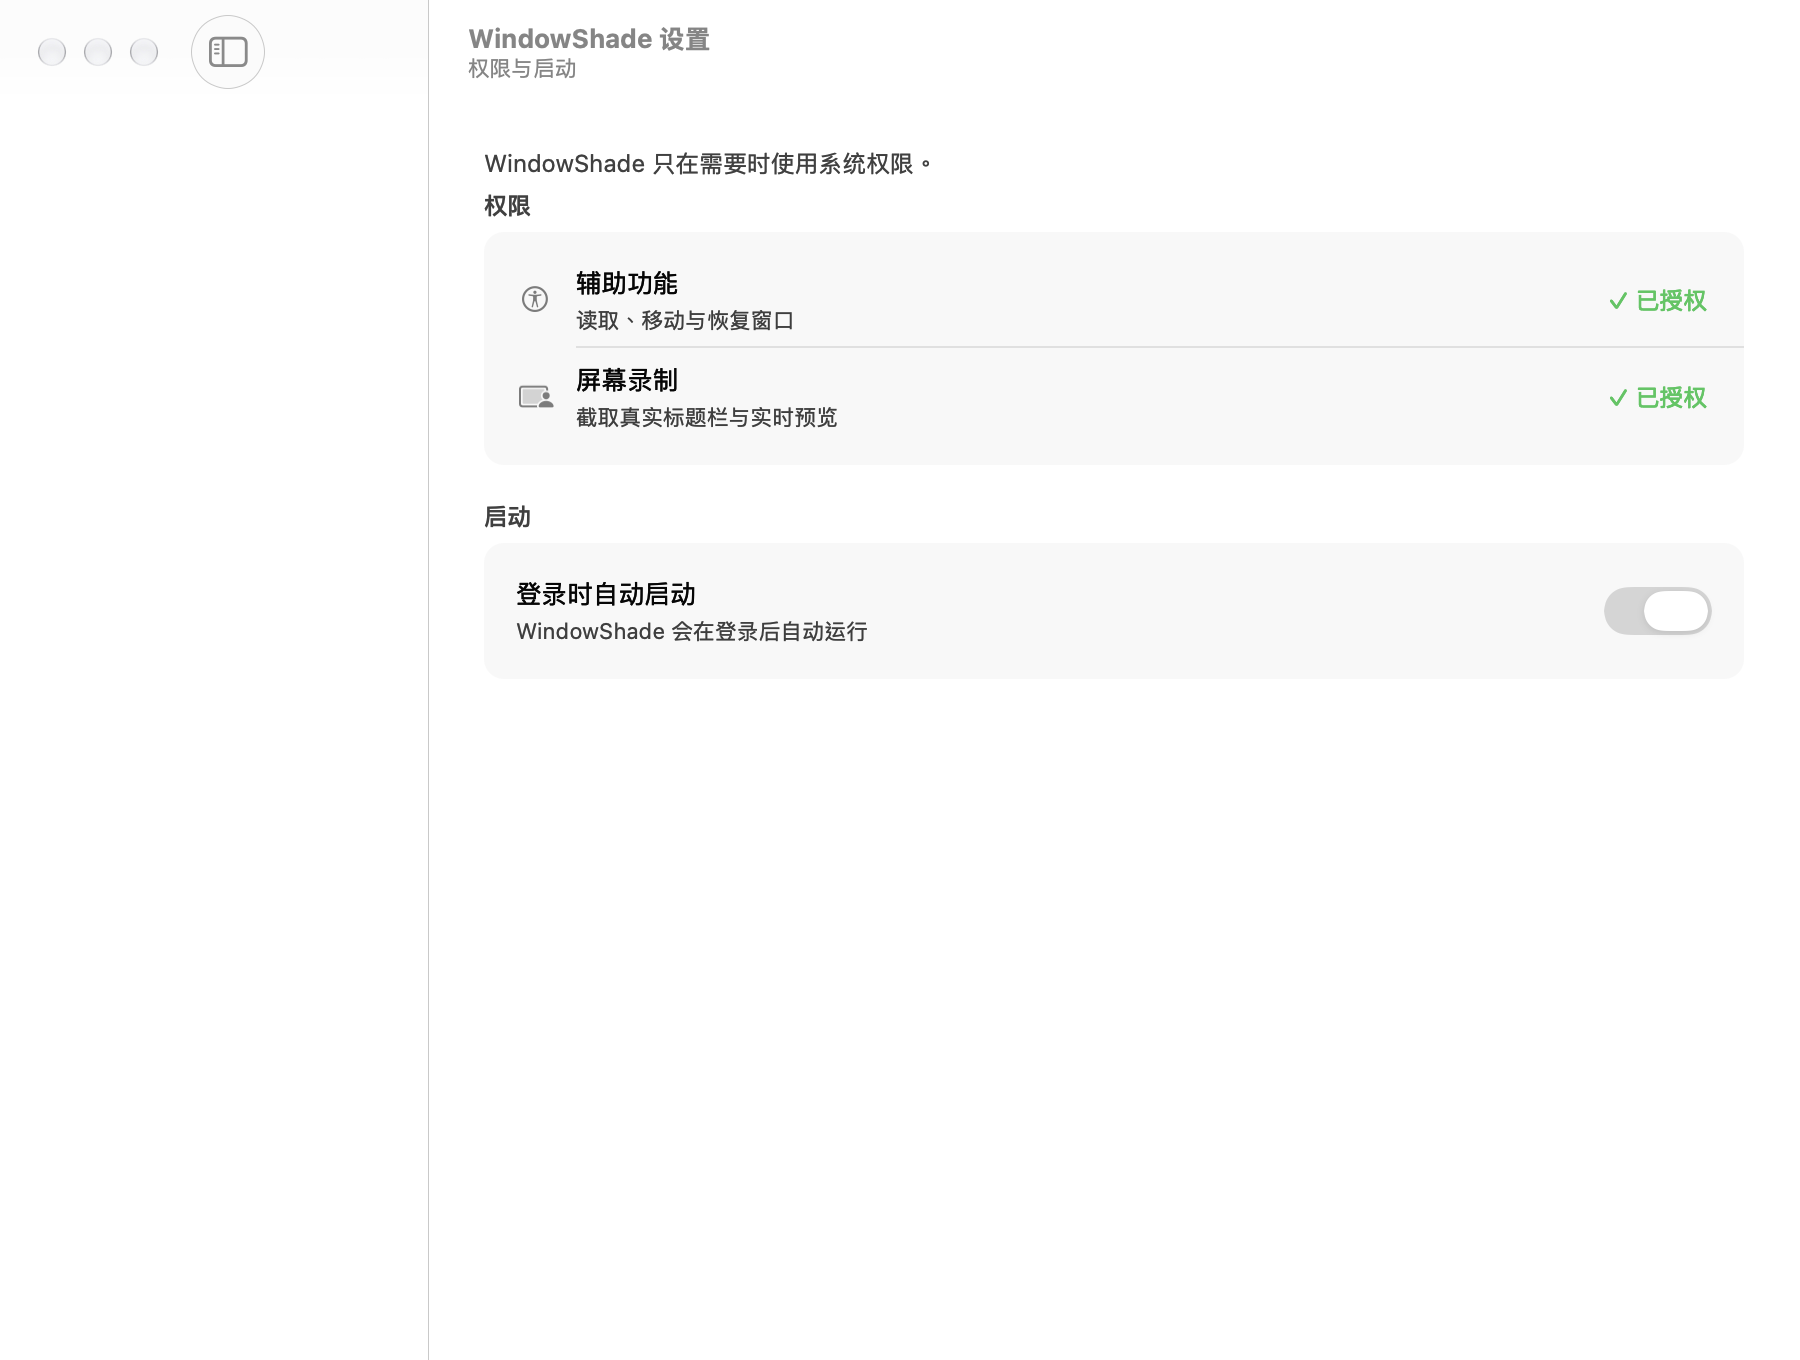
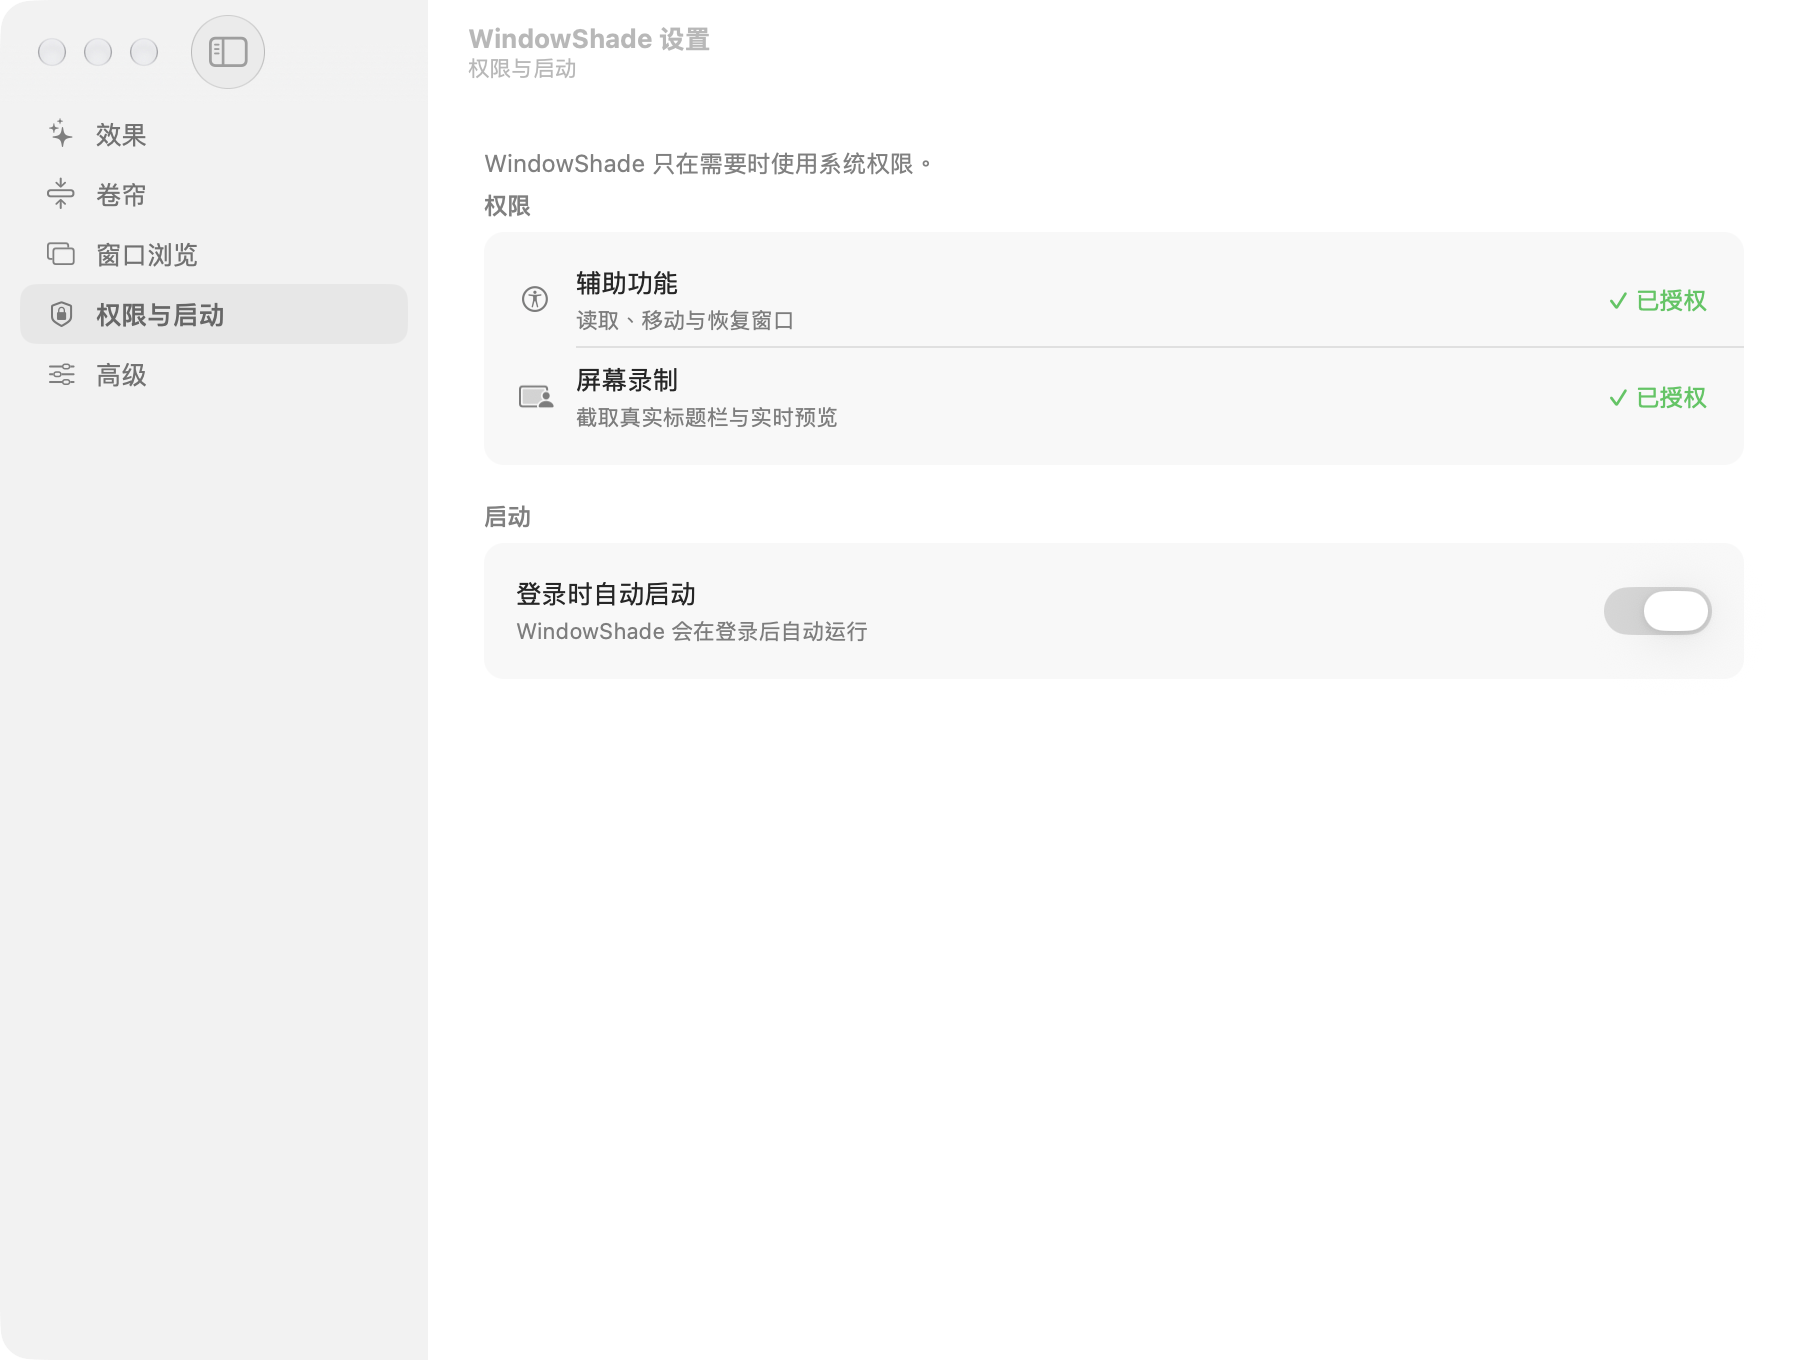
Capture the settings sidebar in the screenshot archive
- SettingsShotProbe：优先用 CGWindowListCreateImage 抓自己这扇窗（dlsym 取符号、
  全透明结果视为失败），拿不到才退回 cacheDisplay 离屏渲染，manifest 同步说明。
  侧栏材质因此进入归档图（浅色 242 / 深色 45），不再是一块透明区域。
- check-settings-appearance.sh：新增侧栏材质不透明断言（meanAlpha > 0.95），
  防止退回透明块时仍然报“外观检查通过”；报告追加该行。
- 归档 docs/visual-qa/settings/ 重新生成（五页浅深 + manifest）。
- 文档：把“设置页截图与改动前逐像素零差异”限定为内容区，并记录新的截图口径、
  新的亮度表与侧栏 alpha。

diff --git a/prototype/Effects/SettingsShotProbe.swift b/prototype/Effects/SettingsShotProbe.swift
@@ -1,8 +1,9 @@
-// 设置窗口的离屏截图入口：用生产设置窗口渲染每一页，不需要屏幕录制权限。
+// 设置窗口截图入口：用生产设置窗口渲染每一页，不需要屏幕录制权限。
 //
 // 与 `SettingsDesignPreview`（走 ScreenCaptureKit 的整窗截图）互补：这里用
-// `cacheDisplay` 拍主题框架，因此包含工具栏与内容区；侧栏由系统材质绘制，离屏
-// 渲染可能为空，需要侧栏时仍用设计预览入口。
+// `CGWindowListCreateImage` 抓自己这扇窗（已合成系统侧栏材质），失败时退回
+// `cacheDisplay`；后者拍的是主题框架，侧栏由系统材质绘制、离屏渲染会是透明区域，
+// 因此只在整窗截图拿不到结果时使用。
 //
 // 用法：WindowShade.app/Contents/MacOS/WindowShade --settings-shots [输出目录]
 
@@ -22,7 +23,8 @@ final class SettingsShotProbe {
                                                 withIntermediateDirectories: true)
         let appearances: [(String, NSAppearance.Name)] = [("light", .aqua), ("dark", .darkAqua)]
         var manifest = """
-        设置窗口页面截图（生产设置窗口，cacheDisplay 离屏渲染；侧栏由系统材质绘制，不在此图内）
+        设置窗口页面截图（生产设置窗口整窗截图，含系统侧栏材质；拿不到整窗结果时才退回
+        cacheDisplay 离屏渲染，那种情况下侧栏区域是透明的）
         macOS: \(ProcessInfo.processInfo.operatingSystemVersionString)
         scale: \(Int(NSScreen.main?.backingScaleFactor ?? 1))x
 
@@ -38,7 +40,8 @@ final class SettingsShotProbe {
                                               y: window.frame.origin.y))
                 RunLoop.current.run(until: Date().addingTimeInterval(0.25))
                 let theme = window.contentView?.superview ?? window.contentView
-                guard let theme, let image = render(view: theme) else { continue }
+                guard let theme,
+                      let image = capture(window: window) ?? render(view: theme) else { continue }
                 let bitmap = NSBitmapImageRep(cgImage: image)
                 guard let data = bitmap.representation(using: .png, properties: [:]) else { continue }
                 let name = "settings-\(appearanceName)-\(section.title).png"
@@ -60,5 +63,41 @@ final class SettingsShotProbe {
               let rep = view.bitmapImageRepForCachingDisplay(in: bounds) else { return nil }
         view.cacheDisplay(in: bounds, to: rep)
         return rep.cgImage
+    }
+
+    /// 整窗截图：这是唯一能把系统侧栏材质一起拍下来的路径（`cacheDisplay` 在侧栏
+    /// 区域会留透明）。CGWindowListCreateImage 已被 Apple 标为废弃但仍可用，所以
+    /// 走 dlsym 拿符号，拿不到就退回离屏渲染，不写死对已废弃 API 的依赖。
+    private func capture(window: NSWindow) -> CGImage? {
+        let number = window.windowNumber
+        guard number > 0 else { return nil }
+        typealias CreateImage = @convention(c) (CGRect, CGWindowListOption, CGWindowID,
+                                                CGWindowImageOption) -> Unmanaged<CGImage>?
+        guard let handle = dlopen("/System/Library/Frameworks/CoreGraphics.framework/CoreGraphics",
+                                  RTLD_LAZY),
+              let symbol = dlsym(handle, "CGWindowListCreateImage") else { return nil }
+        let createImage = unsafeBitCast(symbol, to: CreateImage.self)
+        guard let image = createImage(.null, .optionIncludingWindow, CGWindowID(number),
+                                      [.boundsIgnoreFraming, .bestResolution])?
+            .takeRetainedValue() else { return nil }
+        return isBlank(image) ? nil : image
+    }
+
+    /// 窗口还没被合成时 CGWindowListCreateImage 会返回一张全透明图，这种结果要丢弃。
+    private func isBlank(_ image: CGImage) -> Bool {
+        let width = min(image.width, 32)
+        let height = min(image.height, 32)
+        guard width > 1, height > 1,
+              let context = CGContext(data: nil, width: width, height: height,
+                                      bitsPerComponent: 8, bytesPerRow: width * 4,
+                                      space: CGColorSpaceCreateDeviceRGB(),
+                                      bitmapInfo: CGImageAlphaInfo.premultipliedLast.rawValue)
+        else { return true }
+        context.draw(image, in: CGRect(x: 0, y: 0, width: width, height: height))
+        guard let data = context.data?.assumingMemoryBound(to: UInt8.self) else { return true }
+        for index in stride(from: 3, to: width * height * 4, by: 4) where data[index] > 0 {
+            return false
+        }
+        return true
     }
 }

diff --git a/docs/design-v1.md b/docs/design-v1.md
@@ -110,9 +110,10 @@ VoiceOver 焦点移到卡片/行（见上文）之后，VO-Space 的“按下”
 `NSFont.preferredFont(forTextStyle: .body)`，delta 保持原来的相对关系，下限 9pt）。
 行本身用的是最小高度而不是固定高度，字号变大时行会自然长高。
 
-验证：默认文字大小下设置页截图与改动前**逐像素零差异**（`pixdiff` 报告
-`differing pixels=0 maxDelta=0.000`，两张页面），说明观感未变；断言覆盖
-“delta 0/-1/-2 相对关系”“默认下仍是 13/12/11/20”。
+验证：默认文字大小下设置页**内容区**与改动前逐像素零差异（同一离屏口径的 `pixdiff`
+报告 `differing pixels=0 maxDelta=0.000`，两张页面），说明观感未变；断言覆盖
+“delta 0/-1/-2 相对关系”“默认下仍是 13/12/11/20”。归档截图后来改成整窗截图
+（含系统侧栏材质），因此不能再拿新旧归档图直接做整图比对。
 
 ## 动态颜色必须在视图自己的外观下解析（1.0.13 之后）
 
@@ -176,23 +177,27 @@ VoiceOver 焦点移到卡片/行（见上文）之后，VO-Space 的“按下”
 
 ## 设置窗口截图与动态颜色（1.0.13 之后）
 
-新增离屏入口 `--settings-shots [输出目录]`：用生产设置窗口渲染每一页（浅色/深色），
+新增 `--settings-shots [输出目录]`：用生产设置窗口渲染每一页（浅色/深色），
 不需要屏幕录制权限，结果写到 `.build/settings-shots/`（示例归档在
-`docs/visual-qa/settings/`）。该入口拍的是主题框架，包含工具栏与内容区；侧栏由系统
-材质绘制，离屏不参与渲染，需要侧栏时仍用 `--duo-design-preview` 的整窗截图；效果页的
-Metal 预览画布同样不会出现在离屏图里。
+`docs/visual-qa/settings/`）。默认走 `CGWindowListCreateImage` 抓自己这扇窗，因此
+系统侧栏材质（浅色 242 / 深色 45）也在图内；只有整窗截图拿不到结果时才退回
+`cacheDisplay` 离屏渲染，那时侧栏区域会是透明块。效果页的 Metal 预览画布在两条
+路径里都是以生产视图渲染的，需要交互录制时仍用 `--duo-design-preview`。
 
 逐页外观巡检固化为 `bash scripts/check-settings-appearance.sh`：它跑一遍截图入口，
-比较每页内容区的浅色/深色平均亮度（要求浅色 > 0.6、深色 < 0.5、差 ≥ 0.4），结果写入
-`.build/design-review/settings-appearance-check.txt`。当前五页实测：
+比较每页内容区的浅色/深色平均亮度（要求浅色 > 0.6、深色 < 0.5、差 ≥ 0.4），
+并检查侧栏材质区域不透明（`meanAlpha > 0.95`，防止退回成透明块还当成“截图正常”），
+结果写入 `.build/design-review/settings-appearance-check.txt`。当前五页实测
+（整窗截图口径，效果页的白色部分是纸面预览画布本身）：
 
 | 页面 | 浅色 | 深色 | 差 |
 | --- | --- | --- | --- |
-| 效果 | 0.961 | 0.172 | 0.788 |
-| 卷帘 | 0.963 | 0.168 | 0.794 |
-| 窗口浏览 | 0.939 | 0.195 | 0.744 |
-| 权限与启动 | 0.983 | 0.141 | 0.842 |
-| 高级 | 0.964 | 0.165 | 0.799 |
+| 效果 | 0.964 | 0.414 | 0.550 |
+| 卷帘 | 0.966 | 0.193 | 0.773 |
+| 窗口浏览 | 0.949 | 0.202 | 0.748 |
+| 权限与启动 | 0.986 | 0.190 | 0.796 |
+| 高级 | 0.969 | 0.189 | 0.780 |
+| 侧栏材质 alpha | — | — | 1.000 |
 
 这条路径暴露并修掉了一个真实缺陷：设置页分组盒的填充色由
 `NSColor.controlBackgroundColor.blended(...)` 得到，而 `blended` 返回**已解析的静态

diff --git a/docs/releases/v1.0.14.md b/docs/releases/v1.0.14.md
@@ -13,7 +13,7 @@
 - **设置页在深色下可读。** 分组盒填充曾是被冻结的静态颜色，深色下仍是浅底、文字几乎看不清；改为绘制时解析的动态颜色，并逐页检查内容区平均亮度（浅深差 0.744–0.842）。
 - **经典卷帘条跟随外观。** 配色改为持有 pid + `refreshPalette()`；“浅色下创建 → 切深色 → 刷新”与“直接在深色下创建”逐项一致，且与浅色配色不同（探针 `classic-strip-palette PASS`）。
 - **回退都在。** 减少透明度用不透明底，提高对比度加粗边线、选中不只靠颜色，减少动态效果不做位移与缩放；四类系统设置变化都会刷新已经打开的表面。
-- **字号跟随系统。** 窗口浏览与设置页的字号改为“相对正文字号”，随系统“文字大小”缩放；默认外观下设置页截图与改动前**逐像素零差异**。
+- **字号跟随系统。** 窗口浏览与设置页的字号改为“相对正文字号”，随系统“文字大小”缩放；默认外观下设置页内容区与改动前逐像素零差异（`differing pixels=0`）。
 
 ### 补齐 AppKit 契约
 
@@ -69,7 +69,7 @@
 - The shade strip, hover thumbnail, pinned preview, window-browser panel, settings and onboarding all read the same `SystemAppearancePolicy` — materials, hairlines, veils, shadows, animation and type scale.
 - Dynamic colours are now resolved inside each view's `effectiveAppearance`. Before the fix a light row could sit on a dark panel; the selected row background now walks `1.000 → 0.118 → 1.000` and a regression asserts it.
 - The settings group box no longer keeps a frozen light fill in dark mode (page-by-page brightness delta 0.744–0.842), and the classic strip recomputes its palette on appearance changes (`classic-strip-palette PASS`).
-- Reduce Transparency, Increase Contrast, Reduce Motion and light/dark switches refresh already-open surfaces. Type sizes are relative to body text, and the settings screenshots stay pixel-identical to the previous release at the default appearance.
+- Reduce Transparency, Increase Contrast, Reduce Motion and light/dark switches refresh already-open surfaces. Type sizes are relative to body text, and the settings content area stays pixel-identical to the previous release at the default appearance.
 
 ### AppKit contracts
 

diff --git a/docs/system-integration-polish.md b/docs/system-integration-polish.md
@@ -64,7 +64,8 @@ Release 一并完成，本机应用用同一签名身份原地替换。版本历
 - 状态栏：折叠窗口前 9 个带 ⌃⌘1…9、其余进“更多”子菜单；置顶列表去掉误导性编号；
   菜单标题统一截断；临时提示只显示短标题（完整文案在 tooltip/可访问性值）。
 - 排版：窗口浏览与设置页字号改为“相对正文字号”，跟随系统“文字大小”；默认外观下
-  设置页截图与改动前**逐像素零差异**。
+  设置页**内容区**与改动前逐像素零差异（同一离屏口径的 `pixdiff` 报告
+  `differing pixels=0`；归档截图后来改成整窗截图，多出来的只是系统侧栏材质）。
 
 ## 6. 验证命令与结果
 
